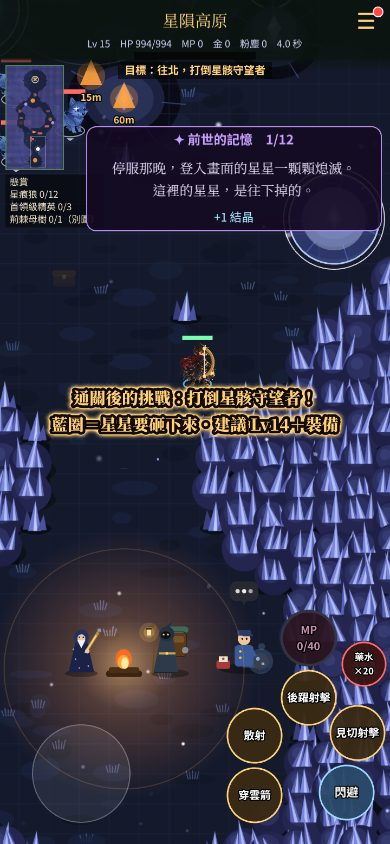
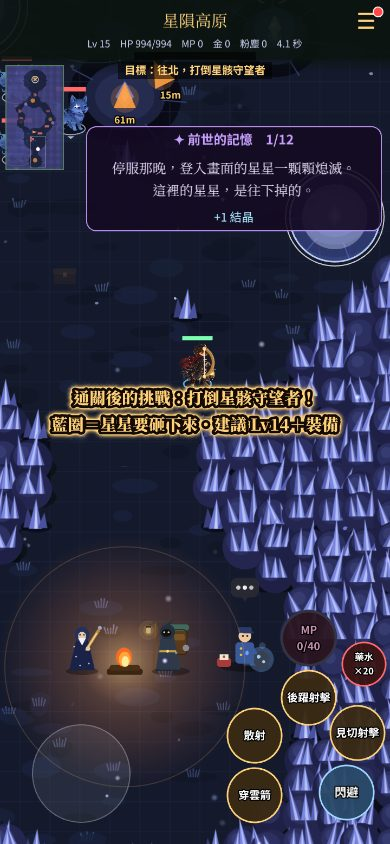
記憶卡／回禮卡在的時候懸賞板先淡出：星隕高原開場「荊棘母樹 0/1（別圖）」那行被卡片切掉一半；卡片消失懸賞板再回來；README 54 重截
Claude-Session: https://claude.ai/code/session_01DgXGTt6La6TotKfBYfakCr

diff --git a/src/game/scenes/RtBattleScene.ts b/src/game/scenes/RtBattleScene.ts
@@ -1497,6 +1497,7 @@ export class RtBattleScene extends Phaser.Scene {
     const gain = this.add.text(0, h - 80, `+${r.crystal} 結晶${r.all ? '　——所有的記憶都想起來了！' : ''}`, { fontFamily: UI_FONT, fontSize: '22px', color: r.all ? '#ffd27a' : '#a8e8ff' }).setOrigin(0.5);
     c.add([bg, head, body, gain]);
     this.topCard = c;
+    this.hideBountyUnder(c, CW);
     this.tweens.add({ targets: c, alpha: 1, y: 290, duration: 500, ease: 'Cubic.easeOut' });
     this.tweens.add({ targets: c, alpha: 0, delay: r.all ? 8000 : 6000, duration: 700, onComplete: () => c.destroy() });
     if (r.all) this.time.delayedCall(600, () => bigText(this, GAME_WIDTH / 2, GAME_HEIGHT / 2, '前世的記憶　全部想起來了', '#d8b0ff', 40, 2200));
@@ -1588,6 +1589,7 @@ export class RtBattleScene extends Phaser.Scene {
     const gain = this.add.text(0, h - 80, [e.thanks.coin ? `+${e.thanks.coin} 金` : '', e.thanks.crystal ? `+${e.thanks.crystal} 結晶` : ''].filter(Boolean).join('　'), { fontFamily: UI_FONT, fontSize: '22px', color: '#ffd27a' }).setOrigin(0.5);
     c.add([bg, head, body, gain]);
     this.topCard = c;
+    this.hideBountyUnder(c, CW);
     this.tweens.add({ targets: c, alpha: 1, y: 290, duration: 500, ease: 'Cubic.easeOut' });
     this.tweens.add({ targets: c, alpha: 0, delay: 7000, duration: 700, onComplete: () => c.destroy() });
   }
@@ -3484,6 +3486,18 @@ export class RtBattleScene extends Phaser.Scene {
   }
 
   /** Boss 登場（第 23 輪）：上下黑邊＋世界壓暗＋名牌從左滑入，每場第一次交戰演一次 */
+  /**
+   * 上方的記憶卡／回禮卡會蓋住懸賞板較長的那行（「荊棘母樹 0/1（別圖）」右緣約 225，卡片左緣 160），
+   * 字被切一半很難看 → 卡片在的時候懸賞板先淡出，卡片消失再回來（第 53 輪，D-184）
+   */
+  private hideBountyUnder(c: Phaser.GameObjects.Container, cw: number): void {
+    const bt = this.bountyTxt;
+    if (!bt?.visible || !bt.text) return;
+    if (bt.getBounds().right <= GAME_WIDTH - 16 - cw) return;
+    this.tweens.add({ targets: bt, alpha: 0, duration: 250 });
+    c.once('destroy', () => { if (bt.active) this.tweens.add({ targets: bt, alpha: 1, duration: 300 }); });
+  }
+
   private bossIntro(d: Unit): void {
     const def = ENEMIES[d.defId];
     if (!def) return;
